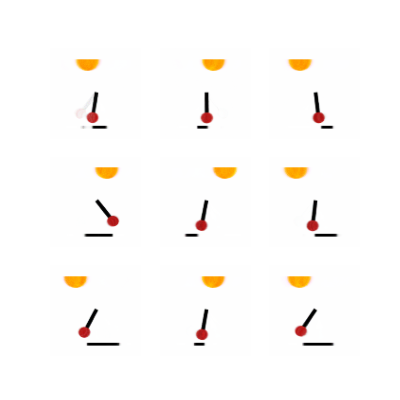
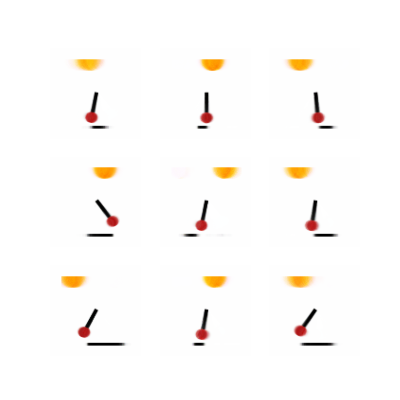
add model loading, do intervention

diff --git a/main_exo.py b/main_exo.py
@@ -41,7 +41,7 @@ except:
 wandb.init(
     project="(causal)VAE", 
     entity="anseunghwan",
-    tags=["linear", "nomask", "prior_constraint: DAG reconstruction"], # AddictiveNoiseModel, nonlinear(tanh)
+    tags=["linear", "nomask", "prior_constraint: DAG reconstruction", "recon_with_Bz"], # AddictiveNoiseModel, nonlinear(tanh)
 )
 #%%
 import argparse
@@ -178,12 +178,6 @@ def main():
         train_x.append(np.array(Image.open("./utils/causal_data/pendulum/train/{}".format(train_imgs[i])))[:, :, :3])
     train_x = (np.array(train_x).astype(float) - 127.5) / 127.5
     
-    # test_imgs = os.listdir('./utils/causal_data/pendulum/test')
-    # test_x = []
-    # for i in tqdm.tqdm(range(len(test_imgs)), desc="test data loading"):
-    #     test_x.append(np.array(Image.open("./utils/causal_data/pendulum/test/{}".format(test_imgs[i])))[:, :, :3])
-    # test_x = (np.array(test_x).astype(float) - 127.5) / 127.5
-    
     train_x = torch.Tensor(train_x) 
     dataset = TensorDataset(train_x) 
     dataloader = DataLoader(dataset, 
@@ -225,7 +219,8 @@ def main():
             # if epoch > config["epochs"] // 3:
             #     B_ = (model.W * model.ReLU_Y).detach().clone()
             #     model.mask[torch.abs(B_) < config["w_threshold"]] = 0. 
-            nonzero_ratio = (torch.abs(B) < config["w_threshold"]).sum().item() / (config["latent_dim"] * (config["latent_dim"] - 1) / 2)
+            nonzero_ratio = (torch.abs(B) >= config["w_threshold"]).sum().item() 
+            nonzero_ratio /= (config["latent_dim"] * (config["latent_dim"] - 1) / 2)
             
         print_input = "[epoch {:03d}]".format(epoch + 1)
         print_input += ''.join([', {}: {:.4f}'.format(x, np.mean(y).round(2)) for x, y in logs.items()])
@@ -277,11 +272,40 @@ def main():
     artifact.add_file('./assets/model.pth')
     wandb.log_artifact(artifact)
     
-    """model load"""
-    # artifact = wandb.use_artifact('anseunghwan/(causal)VAE/model:v1', type='model')
+    # """model load"""
+    # artifact = wandb.use_artifact('anseunghwan/(causal)VAE/model:v623', type='model')
     # model_dir = artifact.download()
-    # model = VAE(config)
+    # model = VAE(config, device)
     # model.load_state_dict(torch.load(model_dir + '/model.pth'))
+    
+    # B_est = (model.W * model.ReLU_Y).cpu().detach().numpy()
+    # B_est[np.abs(B_est) < config["w_threshold"]] = 0.
+    
+    # test_imgs = os.listdir('./utils/causal_data/pendulum/test')
+    # test_x = []
+    # for i in tqdm.tqdm(range(len(test_imgs)), desc="test data loading"):
+    #     test_x.append(np.array(Image.open("./utils/causal_data/pendulum/test/{}".format(test_imgs[i])))[:, :, :3])
+    # test_x = (np.array(test_x).astype(float) - 127.5) / 127.5
+    # test_x = torch.Tensor(test_x) 
+    
+    # """intervention"""
+    # exog_mean, exog_logvar, latent, B, xhat = model(test_x[[0]])
+    # plt.imshow((xhat[0].cpu().detach().numpy() + 1) / 2)
+    # plt.axis('off')
+    # plt.savefig('./assets/original.png')
+    # plt.close()
+    
+    # z = latent.detach()
+    # epsilon = exog_mean + torch.exp(exog_logvar / 2) * torch.randn(exog_mean.shape).to(device)
+    # do = 0
+    # do_value = 0
+    # for j in range(config["latent_dim"]):
+    #     if j == do:
+    #         z[:, [j]] = do_value
+    #     else:
+    #         if j == 0:  # root node
+    #             z[:, [j]] = epsilon[:, [j]]
+    #         z[:, [j]] = torch.matmul(z[:, :j], torch.tensor(B_est)[:j, [j]]) + epsilon[:, [j]]
     
     wandb.run.finish()
 #%%

diff --git a/utils/model_exo.py b/utils/model_exo.py
@@ -67,7 +67,8 @@ class VAE(nn.Module):
         # B = self.W * self.ReLU_Y * self.mask # masking
         latent = torch.matmul(epsilon, torch.inverse(self.I - B))
         
-        xhat = self.decoder(latent)
+        # xhat = self.decoder(latent)
+        xhat = self.decoder(torch.matmul(latent, B))
         xhat = xhat.view(-1, 96, 96, 3)
         return exog_mean, exog_logvar, latent, B, xhat
 #%%
